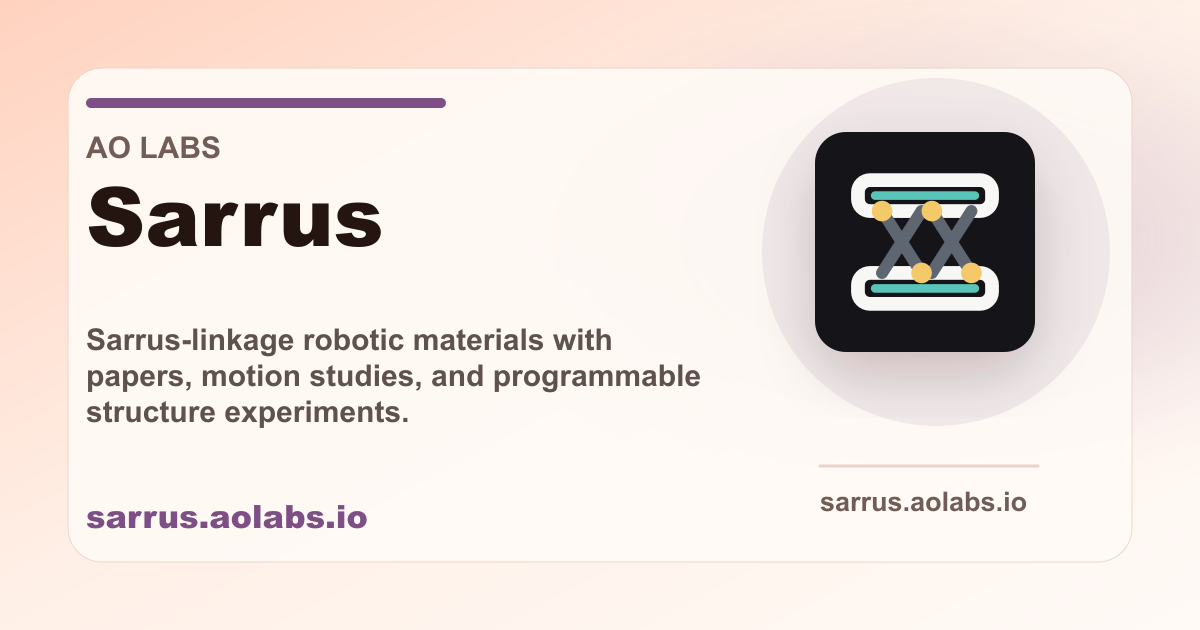
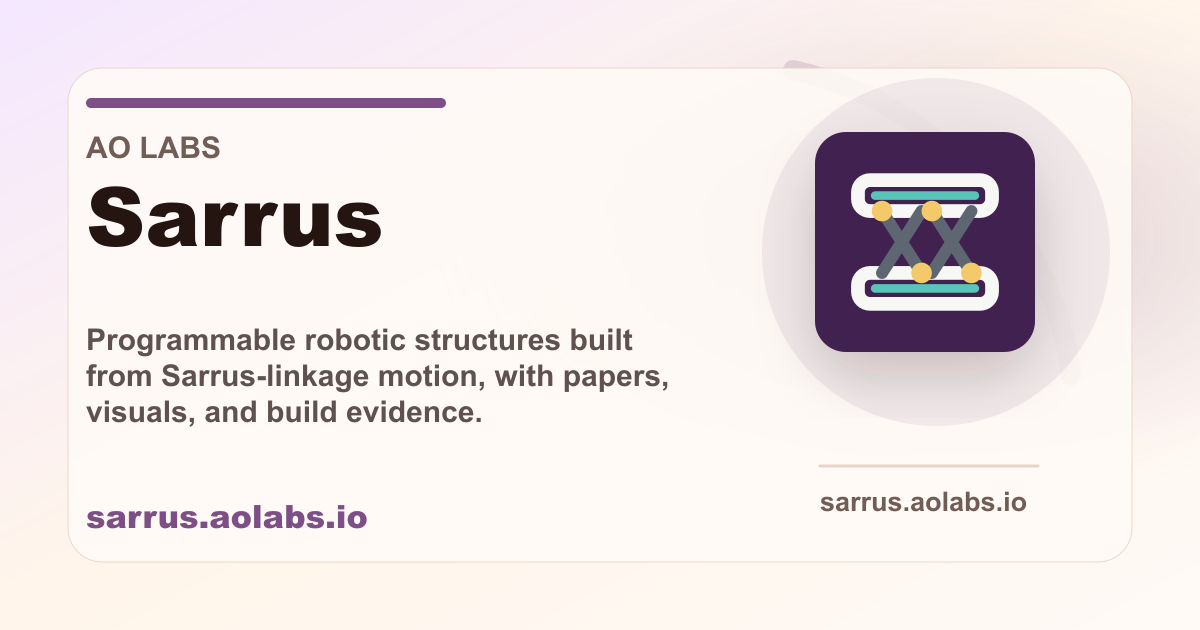
Refine social preview themes

Changed region(s): [[0.0, 0.0, 0.6167, 0.6937], [0.6783, 0.2111, 0.8633, 0.573], [0.6475, 0.0905, 0.6783, 0.1206]]

diff --git a/index.html b/index.html
@@ -4,7 +4,7 @@
   <meta charset="utf-8" />
   <meta name="viewport" content="width=device-width, initial-scale=1" />
   <title>Sarrus</title>
-  <meta name="description" content="Sarrus-linkage robotic materials with papers, motion studies, and programmable structure experiments.">
+  <meta name="description" content="Programmable robotic structures built from Sarrus-linkage motion, with papers, visuals, and build evidence.">
   <link rel="canonical" href="https://sarrus.aolabs.io/" />
   <meta name="twitter:image:alt" content="Sarrus by AO Labs preview card.">
   <meta name="twitter:image" content="https://sarrus.aolabs.io/og-image-20260506.png">
@@ -17,11 +17,11 @@
   <meta property="og:type" content="website">
   <meta property="og:site_name" content="AO Labs">
   <meta property="og:title" content="Sarrus">
-  <meta property="og:description" content="Sarrus-linkage robotic materials with papers, motion studies, and programmable structure experiments.">
+  <meta property="og:description" content="Programmable robotic structures built from Sarrus-linkage motion, with papers, visuals, and build evidence.">
   <meta property="og:url" content="https://sarrus.aolabs.io/">
   <meta name="twitter:card" content="summary_large_image">
   <meta name="twitter:title" content="Sarrus">
-  <meta name="twitter:description" content="Sarrus-linkage robotic materials with papers, motion studies, and programmable structure experiments.">
+  <meta name="twitter:description" content="Programmable robotic structures built from Sarrus-linkage motion, with papers, visuals, and build evidence.">
   <link rel="icon" href="/favicon.svg?v=20260506-icons" type="image/svg+xml">
   <link rel="stylesheet" href="/styles.css">
 </head>
